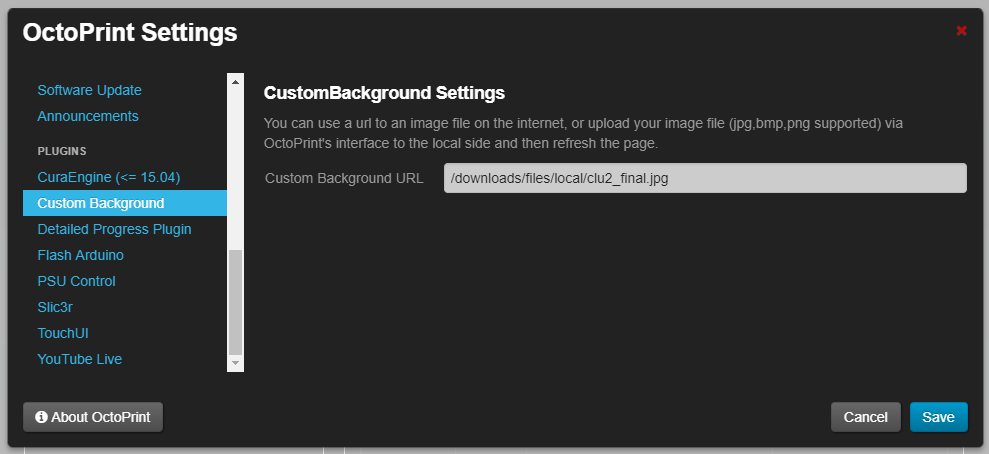
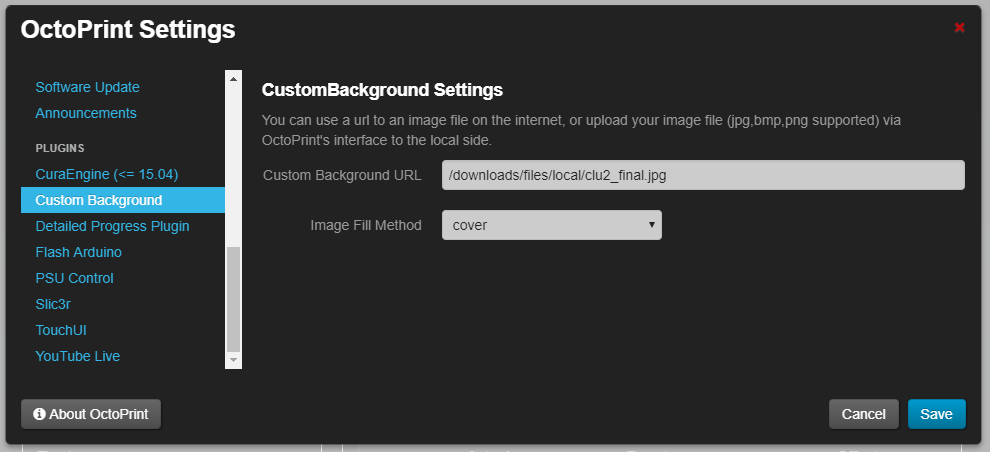
Added fill options.

diff --git a/README.md b/README.md
@@ -25,6 +25,8 @@ https://github.com/jneilliii/OctoPrint-CustomBackground/archive/master.zip
   * Added preprocessor to automatically update plugin settings on file upload.
 * Version 0.4.0 released 09/01/2017
   * Added automatic reload of page.
+* Version 0.5.0 released 09/01/2017
+  * Added image fill options to settings to control the css backgroiund-size property.
   
 ###To-Do
 * [X] Figure out how to upload a custom file to the system in lieu of using a url.
